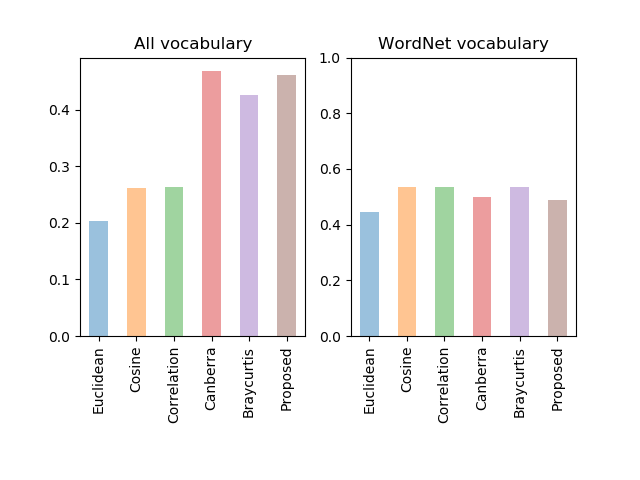
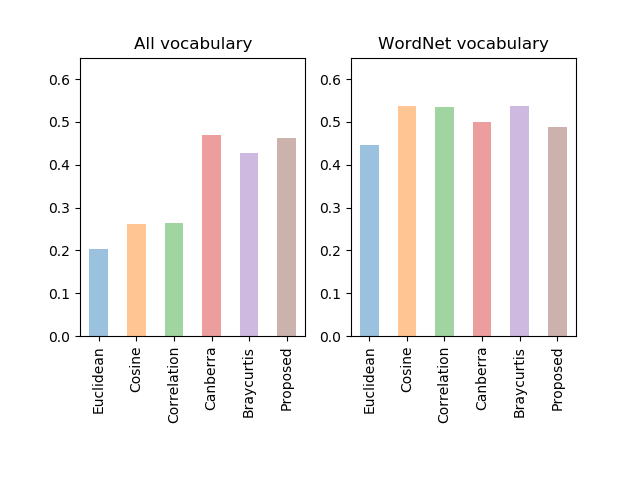
updated

diff --git a/Images and auxiliar graphics/tablesPresentation.py b/Images and auxiliar graphics/tablesPresentation.py
@@ -54,10 +54,11 @@ W300SynonymsAntonyms = [('Euclidean', ),
 ## Graphics ##
 ## ======== ##
 
+# GloVe 300
+# ---------
+
 fig, ax = plt.subplots(1, 2)
 plt.gcf().subplots_adjust(bottom=0.30)
-
-plt.ylim(bottom=0, top=1)
 
 norms = [x[0] for x in G300Synonyms]
 G300SynonymsAll = [x[1] for x in G300Synonyms]
@@ -66,8 +67,27 @@ G300SynonymsWN = [x[2] for x in G300Synonyms]
 G300SAll = pd.Series(G300SynonymsAll, index = norms)
 G300SWN = pd.Series(G300SynonymsWN, index = norms)
 
-G300SAll.plot("bar", ax=ax[0], alpha=.45).set_title("All vocabulary")
-G300SWN.plot("bar", ax=ax[1], alpha=.45).set_title("WordNet vocabulary")
+G300SAll.plot("bar", ax=ax[0], alpha=.45, ylim=[0, 0.65]).set_title("All vocabulary")
+G300SWN.plot("bar", ax=ax[1], alpha=.45, ylim=[0, 0.65]).set_title("WordNet vocabulary")
 
 plt.savefig("GloVe300Synonyms")
+plt.show()
+
+# Word2Vec 300
+# ------------
+
+fig, ax = plt.subplots(1, 2)
+plt.gcf().subplots_adjust(bottom=0.30)
+
+norms = [x[0] for x in W300Synonyms]
+W300SynonymsAll = [x[1] for x in W300Synonyms]
+W300SynonymsWN = [x[2] for x in W300Synonyms]
+
+W300SAll = pd.Series(W300SynonymsAll, index = norms)
+W300SWN = pd.Series(W300SynonymsWN, index = norms)
+
+W300SAll.plot("bar", ax=ax[0], alpha=.45, ylim=[0, 1]).set_title("All vocabulary")
+W300SWN.plot("bar", ax=ax[1], alpha=.45, ylim=[0, 1]).set_title("WordNet vocabulary")
+
+plt.savefig("Word2Vec300Synonyms")
 plt.show()
